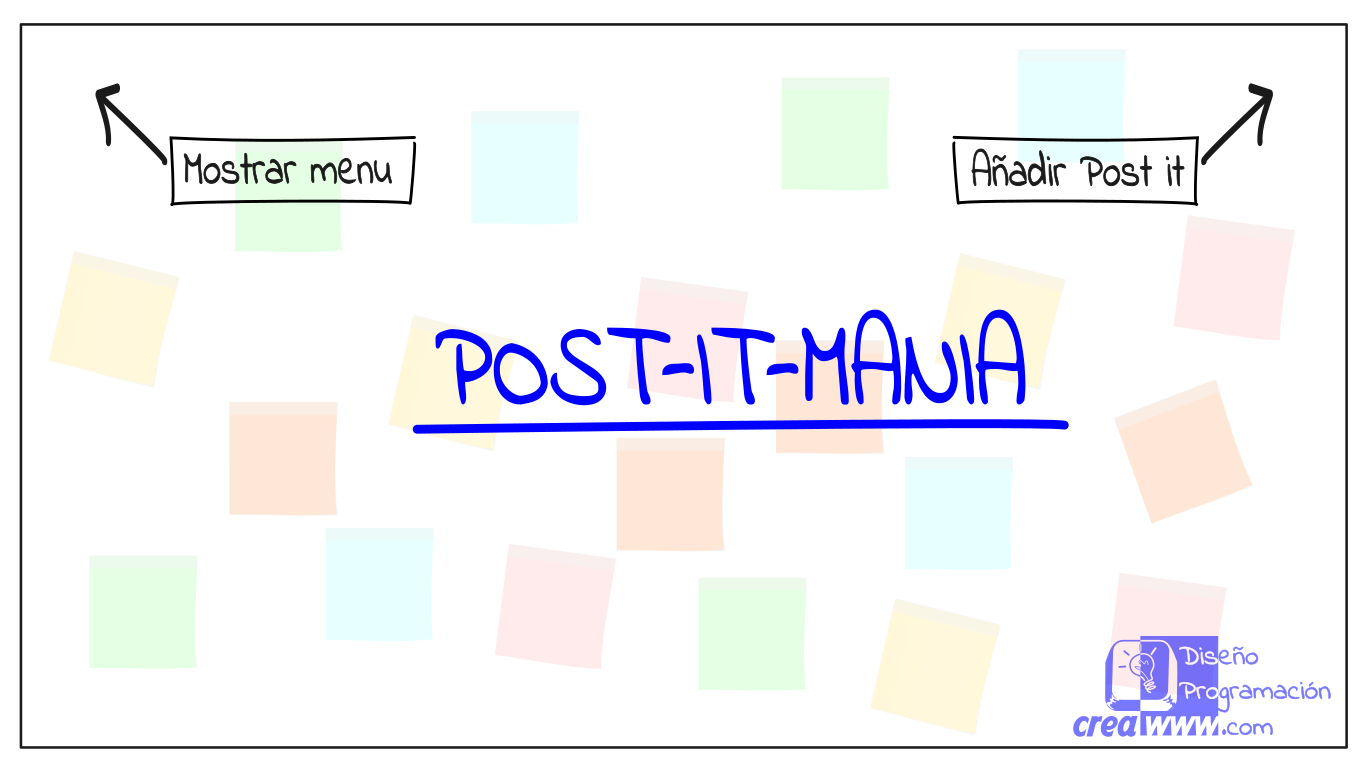
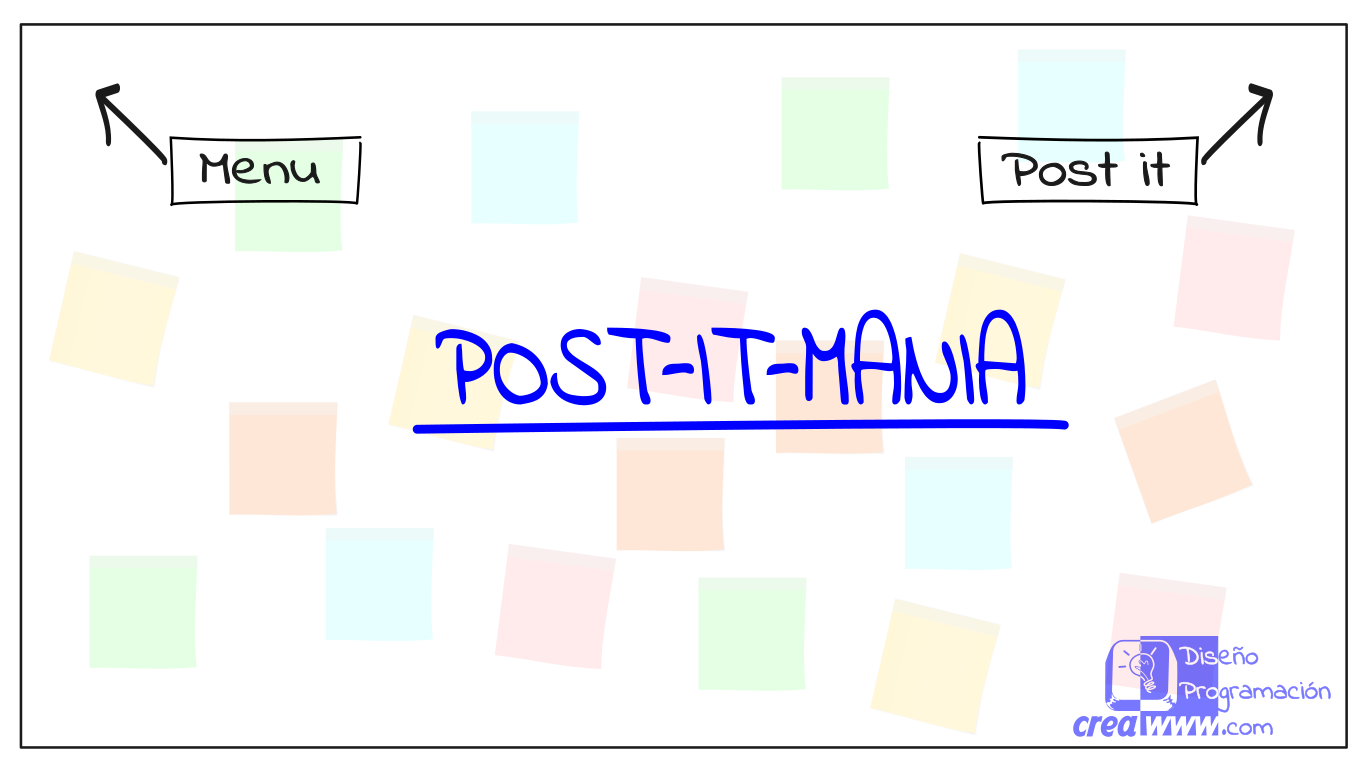
correciones varios

Changed region(s): [[0.123, 0.1562, 0.3075, 0.2812], [0.7072, 0.1562, 0.8917, 0.2812]]

diff --git a/js_css/postit.js b/js_css/postit.js
@@ -130,8 +130,6 @@ var Board={
 			$("#btnEditProy").on( "click", function() { Board.showFormProyect(); });		
 			
 			canvaspostit=Board.read_localStorage();
-			console.log("canvaspostit")			
-			console.log(canvaspostit)
 
 		    Board.createListMenu();
 		    Board.createListCanva();
@@ -187,11 +185,12 @@ var Board={
 				Board.createListMenu();
 				Board.update_localStorage();
 				Board.loadCanvas()
+			}else{
+				$("#newProy").addClass("inputNotData");
 			}
 
 		},
 		showConfirmDel:function(){
-			console.log("ver confirm")
 			$('#confirmDel').css({"display":"block"})	
 		},
 
@@ -222,7 +221,8 @@ var Board={
 
 		},		
 		showFormProyect:function(){
-			$('#confirmDel').css({"display":"none"})	
+			$('#confirmDel').css({"display":"none"})
+			$("#newProy").removeClass("inputNotData");	
 			dialog.dialog( "open" );
 			if(canvasActive){
 				titl=canvaspostit[canvasActive].title;
@@ -281,14 +281,13 @@ var Board={
 			
 		},
 
-		loadCanvas:function(id=-1){
+		loadCanvas:function(id){
 			id = (id>=0)? id : (canvaspostit.length-1)
 
 			$("#tablero").html("");
 			Board.draw();
 			var lastid=0;
 			canvasActive=id;
-			console.log("carga:"+id);
 			d=canvaspostit[id];
 			$("#tablero").css({'background': "url(canvas/"+d.canvas+") 100% 100%"});
 				for(var p in d.postits) {

diff --git a/index.html b/index.html
@@ -28,11 +28,11 @@
   <form>
     <fieldset>
     <p>
-      <label for="newProy">Nombre Lienzo</label>
+      <label for="newProy">Name: </label>
       <input type="text" name="newProy" id="newProy" class="text ui-widget-content ui-corner-all" required>   	
     </p>
 	<p>
-   		<label for="listcanvas">Tipo Lienzo</label>    
+   		<label for="listcanvas">Type</label>    
  		<select id="listcanvas"></select>		
 	</p>
 

diff --git a/js_css/style.css b/js_css/style.css
@@ -172,6 +172,10 @@ display: flex;
   display: none;
   color:red;
 }
+.inputNotData{
+  border: 4px solid red;
+}
+
 a{
   text-decoration: none;
 }
